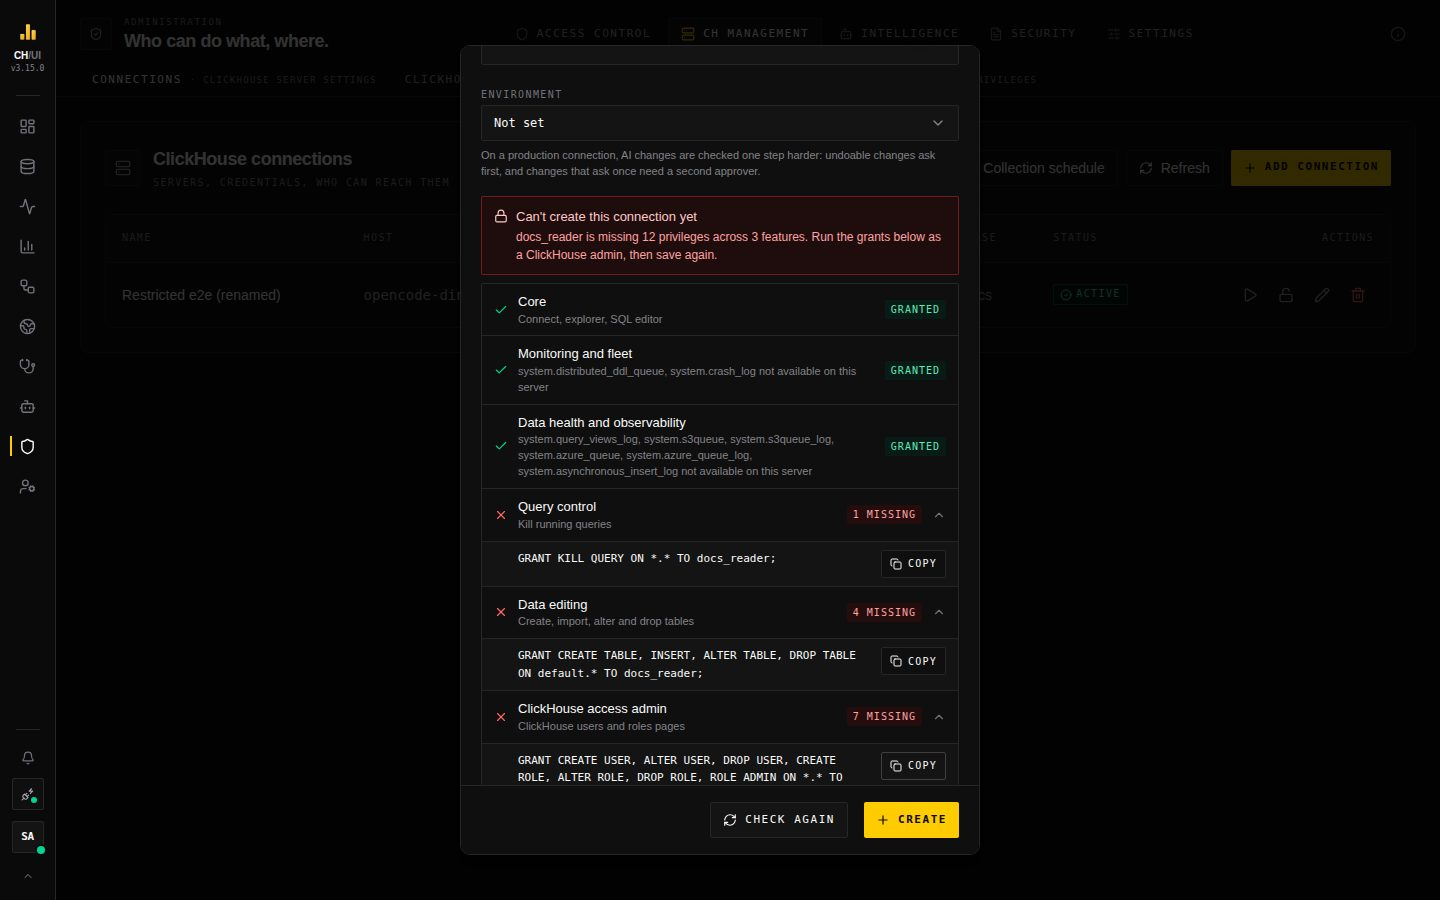
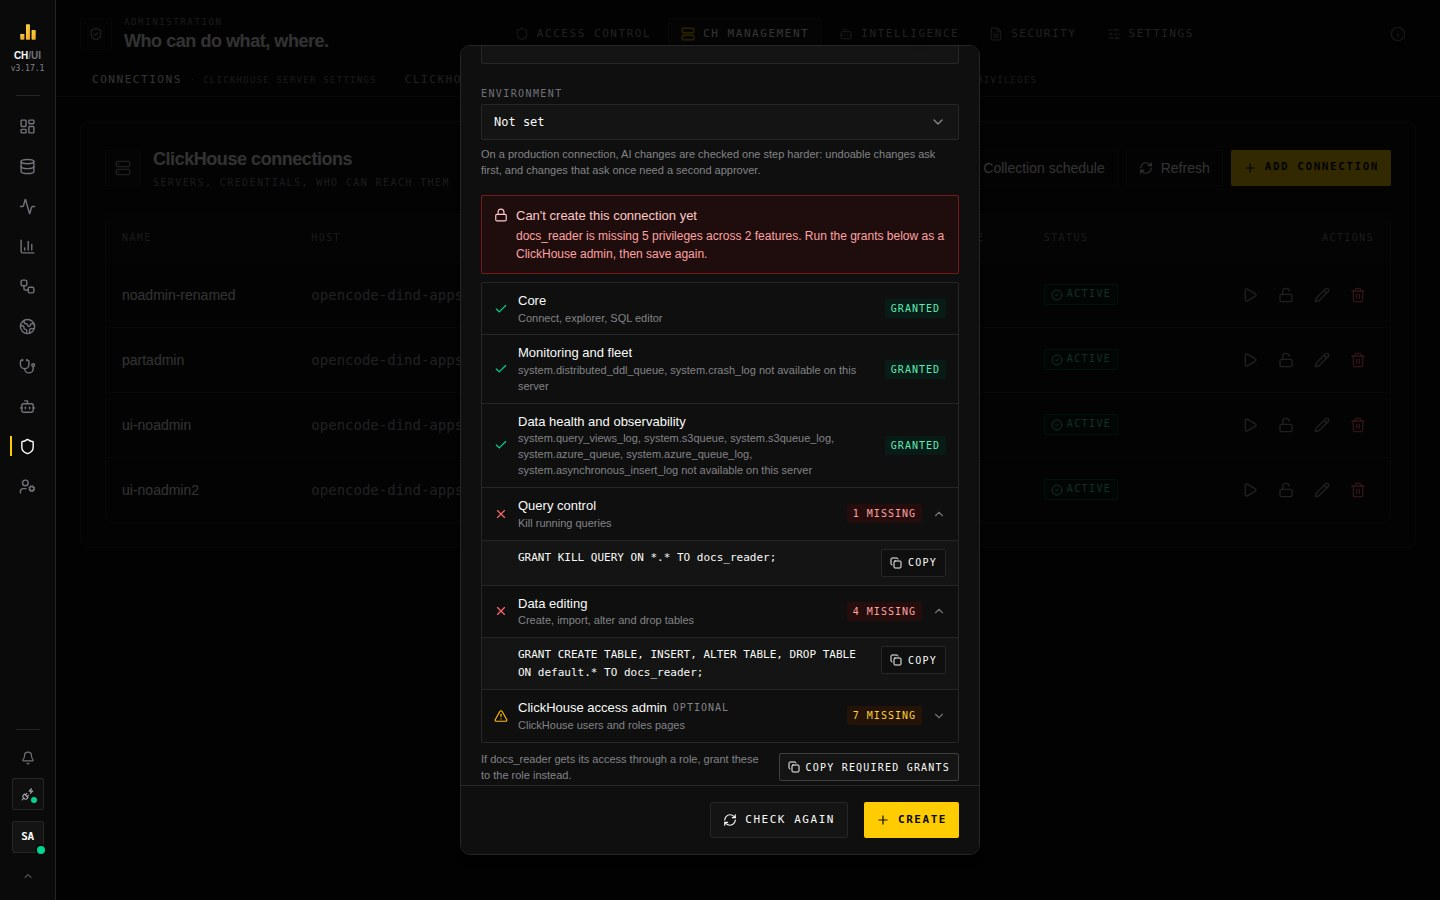
docs(connections): describe optional access admin and refresh the screenshot
Regenerates the ClickHouse privileges reference (and the stale Helm values
page the generator check needs), updates the connections, users & roles and
production checklist pages, and adds the patch changelog fragment.

diff --git a/docs/portfolio/scripts/gen-reference.ts b/docs/portfolio/scripts/gen-reference.ts
@@ -46,7 +46,7 @@ import { BUILTIN_TOOLS } from "../../../packages/server/src/services/ai/registry
 import { SEED_AGENTS, SEED_BINDINGS, SEED_HARNESSES, SEED_SKILLS, type SeedAgent } from "../../../packages/server/src/services/ai/seeds";
 import type { AnyCapability } from "../../../packages/server/src/services/ai/types";
 import { CONTEXT_HINTS, CONTEXT_LABELS, SURFACE_LABELS, SURFACE_ORDER } from "../../../src/features/agents/assistant/lib";
-import { PRIVILEGE_FEATURES } from "../../../packages/server/src/services/connectionPrivileges";
+import { PRIVILEGE_FEATURES, type PrivilegeFeature } from "../../../packages/server/src/services/connectionPrivileges";
 import { CONFIG_KEYS, CONFIG_SECTIONS, IGNORED_ENV } from "../src/content/reference/config-keys";
 import { RELEASE } from "../src/content/release";
 import { slugify } from "../src/docs-site/lib";
@@ -231,6 +231,7 @@ ${table(["Area", "Actions"], rows)}
 function connectionPrivilegesPage(): string {
   const rows = PRIVILEGE_FEATURES.map((feature) => [
     `**${feature.name}**`,
+    feature.required ? "Yes" : "No — warns",
     cell(feature.description),
     feature.systemTables.length ? feature.systemTables.map((t) => code(`system.${t}`)).join(", ") : "—",
     (["global", "database"] as const)
@@ -241,28 +242,38 @@ function connectionPrivilegesPage(): string {
       .filter(Boolean)
       .join("; ") || "—",
   ]);
-  const tables = [...new Set(PRIVILEGE_FEATURES.flatMap((f) => f.systemTables))];
-  const byScope = (scope: "global" | "database"): string[] =>
-    [...new Set(PRIVILEGE_FEATURES.flatMap((f) => f.privileges.filter((p) => p.scope === scope).map((p) => p.privilege)))];
+  const required = PRIVILEGE_FEATURES.filter((f) => f.required);
+  const optional = PRIVILEGE_FEATURES.filter((f) => !f.required);
+  const requiredTables = new Set(required.flatMap((f) => f.systemTables));
+  const optionalTables = [...new Set(optional.flatMap((f) => f.systemTables))].filter((t) => !requiredTables.has(t));
+  const byScope = (features: readonly PrivilegeFeature[], scope: "global" | "database"): string[] =>
+    [...new Set(features.flatMap((f) => f.privileges.filter((p) => p.scope === scope).map((p) => p.privilege)))];
+  const grantLine = (privileges: string[], target: string): string[] => (privileges.length ? [`GRANT ${privileges.join(", ")} ON ${target} TO chouse_ui;`] : []);
   const script = [
     "CREATE USER chouse_ui IDENTIFIED BY 'change-me';",
     "-- What people query: repeat for each database",
     "GRANT SELECT ON analytics.* TO chouse_ui;",
-    ...tables.map((t) => `GRANT SELECT ON system.${t} TO chouse_ui;`),
-    `GRANT ${byScope("global").join(", ")} ON *.* TO chouse_ui;`,
+    ...[...requiredTables].map((t) => `GRANT SELECT ON system.${t} TO chouse_ui;`),
+    ...grantLine(byScope(required, "global"), "*.*"),
     "-- The connection's default database",
-    `GRANT ${byScope("database").join(", ")} ON analytics.* TO chouse_ui;`,
+    ...grantLine(byScope(required, "database"), "analytics.*"),
+    `-- Optional: ${optional.map((f) => f.name).join(", ")}`,
+    ...optionalTables.map((t) => `GRANT SELECT ON system.${t} TO chouse_ui;`),
+    ...grantLine(byScope(optional, "global"), "*.*"),
+    ...grantLine(byScope(optional, "database"), "analytics.*"),
   ].join("\n");
   return page(
     "PRIVILEGE_FEATURES in packages/server/src/services/connectionPrivileges.ts",
     `
 # ClickHouse privileges
 
-What a [connection](/docs/connections/)'s ClickHouse user must be able to do for every CHouse UI feature to work. **Test connection** checks the user against every feature below, and a connection is only saved once every check passes: **Create** and **Update** run the same check on the server first. Whatever is missing comes back as \`GRANT\` statements you can copy and run as a ClickHouse admin.
+What a [connection](/docs/connections/)'s ClickHouse user must be able to do for every CHouse UI feature to work. **Test connection** checks the user against every feature below, and a connection is only saved once every **required** feature passes: **Create** and **Update** run the same check on the server first. Whatever is missing comes back as \`GRANT\` statements you can copy and run as a ClickHouse admin.
 
 ## What each feature needs
 
-${table(["Feature", "Covers", "Read (\`SELECT\`)", "Privileges"], rows)}
+${table(["Feature", "Required to save", "Covers", "Read (\`SELECT\`)", "Privileges"], rows)}
+
+${optional.map((f) => `**${f.name}** is optional`).join(", ")}: its privileges let the connection user create other users and hand out grants, which many teams keep away from a UI's service account. Without them the connection still saves, with a warning, and every other feature works; only the [ClickHouse users & roles](/docs/clickhouse-users-roles/) pages fail until you grant them.
 
 Data editing is checked on the connection's **default database** (\`default\` when none is set). Grant the same on any other database people should be able to change.
 
@@ -272,7 +283,7 @@ Data editing is checked on the connection's **default database** (\`default\` wh
 - **Other privileges** are checked against the user's own \`SHOW GRANTS\`, with roles expanded (\`SHOW GRANTS FINAL\` where the server supports it, each enabled role on older servers) and ClickHouse's privilege tree from \`system.privileges\`, so \`ALL\`, \`ACCESS MANAGEMENT\` or \`ALTER\` cover the privileges under them.
 - The check needs no privilege of its own and changes nothing on the server.
 
-Existing connections are never blocked: the check runs when you create one, change its host, port, user, password, SSL or default database, or press **Test**. **Test** on a row of the connection list warns when that connection's user is missing something.
+Existing connections are never blocked: the check runs when you create one, change its host, port, user, password, SSL or default database, or press **Test**. **Test** on a row of the connection list warns when that connection's user is missing something. A check that fails for another reason, such as a timeout, blocks the save only for a required feature.
 
 ## A user with everything
 

diff --git a/docs/portfolio/src/content/docs/connection-privileges.md b/docs/portfolio/src/content/docs/connection-privileges.md
@@ -3,18 +3,20 @@ generated: PRIVILEGE_FEATURES in packages/server/src/services/connectionPrivileg
 ---
 # ClickHouse privileges
 
-What a [connection](/docs/connections/)'s ClickHouse user must be able to do for every CHouse UI feature to work. **Test connection** checks the user against every feature below, and a connection is only saved once every check passes: **Create** and **Update** run the same check on the server first. Whatever is missing comes back as `GRANT` statements you can copy and run as a ClickHouse admin.
+What a [connection](/docs/connections/)'s ClickHouse user must be able to do for every CHouse UI feature to work. **Test connection** checks the user against every feature below, and a connection is only saved once every **required** feature passes: **Create** and **Update** run the same check on the server first. Whatever is missing comes back as `GRANT` statements you can copy and run as a ClickHouse admin.
 
 ## What each feature needs
 
-| Feature | Covers | Read (`SELECT`) | Privileges |
-| --- | --- | --- | --- |
-| **Core** | Connect, explorer, SQL editor | `system.databases`, `system.tables`, `system.columns`, `system.functions`, `system.keywords` | — |
-| **Monitoring and fleet** | Metrics, live queries, dashboards | `system.query_log`, `system.processes`, `system.metrics`, `system.events`, `system.asynchronous_metrics`, `system.metric_log`, `system.asynchronous_metric_log`, `system.parts`, `system.parts_columns`, `system.part_log`, `system.merges`, `system.mutations`, `system.replicas`, `system.replication_queue`, `system.disks`, `system.errors`, `system.clusters`, `system.macros`, `system.distributed_ddl_queue`, `system.distribution_queue`, `system.crash_log` | — |
-| **Data health and observability** | Collectors, pipelines, Doctor, upgrades | `system.tables`, `system.columns`, `system.databases`, `system.dictionaries`, `system.parts`, `system.part_log`, `system.query_log`, `system.query_views_log`, `system.processes`, `system.merges`, `system.mutations`, `system.replicas`, `system.disks`, `system.errors`, `system.settings_profile_elements`, `system.kafka_consumers`, `system.s3queue`, `system.s3queue_log`, `system.azure_queue`, `system.azure_queue_log`, `system.view_refreshes`, `system.distribution_queue`, `system.asynchronous_insert_log`, `system.asynchronous_inserts`, `system.asynchronous_metrics`, `system.data_skipping_indices`, `system.server_settings`, `system.merge_tree_settings` | — |
-| **Query control** | Kill running queries | — | `KILL QUERY` on `*.*` |
-| **Data editing** | Create, import, alter and drop tables | — | `CREATE TABLE`, `INSERT`, `ALTER TABLE`, `DROP TABLE` on the default database |
-| **ClickHouse access admin** | ClickHouse users and roles pages | `system.users`, `system.roles`, `system.grants`, `system.role_grants` | `CREATE USER`, `ALTER USER`, `DROP USER`, `CREATE ROLE`, `ALTER ROLE`, `DROP ROLE`, `ROLE ADMIN` on `*.*` |
+| Feature | Required to save | Covers | Read (`SELECT`) | Privileges |
+| --- | --- | --- | --- | --- |
+| **Core** | Yes | Connect, explorer, SQL editor | `system.databases`, `system.tables`, `system.columns`, `system.functions`, `system.keywords` | — |
+| **Monitoring and fleet** | Yes | Metrics, live queries, dashboards | `system.query_log`, `system.processes`, `system.metrics`, `system.events`, `system.asynchronous_metrics`, `system.metric_log`, `system.asynchronous_metric_log`, `system.parts`, `system.parts_columns`, `system.part_log`, `system.merges`, `system.mutations`, `system.replicas`, `system.replication_queue`, `system.disks`, `system.errors`, `system.clusters`, `system.macros`, `system.distributed_ddl_queue`, `system.distribution_queue`, `system.crash_log` | — |
+| **Data health and observability** | Yes | Collectors, pipelines, Doctor, upgrades | `system.tables`, `system.columns`, `system.databases`, `system.dictionaries`, `system.parts`, `system.part_log`, `system.query_log`, `system.query_views_log`, `system.processes`, `system.merges`, `system.mutations`, `system.replicas`, `system.disks`, `system.errors`, `system.settings_profile_elements`, `system.kafka_consumers`, `system.s3queue`, `system.s3queue_log`, `system.azure_queue`, `system.azure_queue_log`, `system.view_refreshes`, `system.distribution_queue`, `system.asynchronous_insert_log`, `system.asynchronous_inserts`, `system.asynchronous_metrics`, `system.data_skipping_indices`, `system.server_settings`, `system.merge_tree_settings` | — |
+| **Query control** | Yes | Kill running queries | — | `KILL QUERY` on `*.*` |
+| **Data editing** | Yes | Create, import, alter and drop tables | — | `CREATE TABLE`, `INSERT`, `ALTER TABLE`, `DROP TABLE` on the default database |
+| **ClickHouse access admin** | No — warns | ClickHouse users and roles pages | `system.users`, `system.roles`, `system.grants`, `system.role_grants` | `CREATE USER`, `ALTER USER`, `DROP USER`, `CREATE ROLE`, `ALTER ROLE`, `DROP ROLE`, `ROLE ADMIN` on `*.*` |
+
+**ClickHouse access admin** is optional: its privileges let the connection user create other users and hand out grants, which many teams keep away from a UI's service account. Without them the connection still saves, with a warning, and every other feature works; only the [ClickHouse users & roles](/docs/clickhouse-users-roles/) pages fail until you grant them.
 
 Data editing is checked on the connection's **default database** (`default` when none is set). Grant the same on any other database people should be able to change.
 
@@ -24,7 +26,7 @@ Data editing is checked on the connection's **default database** (`default` when
 - **Other privileges** are checked against the user's own `SHOW GRANTS`, with roles expanded (`SHOW GRANTS FINAL` where the server supports it, each enabled role on older servers) and ClickHouse's privilege tree from `system.privileges`, so `ALL`, `ACCESS MANAGEMENT` or `ALTER` cover the privileges under them.
 - The check needs no privilege of its own and changes nothing on the server.
 
-Existing connections are never blocked: the check runs when you create one, change its host, port, user, password, SSL or default database, or press **Test**. **Test** on a row of the connection list warns when that connection's user is missing something.
+Existing connections are never blocked: the check runs when you create one, change its host, port, user, password, SSL or default database, or press **Test**. **Test** on a row of the connection list warns when that connection's user is missing something. A check that fails for another reason, such as a timeout, blocks the save only for a required feature.
 
 ## A user with everything
 
@@ -74,13 +76,15 @@ GRANT SELECT ON system.asynchronous_inserts TO chouse_ui;
 GRANT SELECT ON system.data_skipping_indices TO chouse_ui;
 GRANT SELECT ON system.server_settings TO chouse_ui;
 GRANT SELECT ON system.merge_tree_settings TO chouse_ui;
+GRANT KILL QUERY ON *.* TO chouse_ui;
+-- The connection's default database
+GRANT CREATE TABLE, INSERT, ALTER TABLE, DROP TABLE ON analytics.* TO chouse_ui;
+-- Optional: ClickHouse access admin
 GRANT SELECT ON system.users TO chouse_ui;
 GRANT SELECT ON system.roles TO chouse_ui;
 GRANT SELECT ON system.grants TO chouse_ui;
 GRANT SELECT ON system.role_grants TO chouse_ui;
-GRANT KILL QUERY, CREATE USER, ALTER USER, DROP USER, CREATE ROLE, ALTER ROLE, DROP ROLE, ROLE ADMIN ON *.* TO chouse_ui;
--- The connection's default database
-GRANT CREATE TABLE, INSERT, ALTER TABLE, DROP TABLE ON analytics.* TO chouse_ui;
+GRANT CREATE USER, ALTER USER, DROP USER, CREATE ROLE, ALTER ROLE, DROP ROLE, ROLE ADMIN ON *.* TO chouse_ui;
 ```
 
 To let [ClickHouse users & roles](/docs/clickhouse-users-roles/) hand out privileges to others, the connection user also needs those privileges `WITH GRANT OPTION`.

diff --git a/docs/portfolio/src/content/docs/connections.md b/docs/portfolio/src/content/docs/connections.md
@@ -18,7 +18,7 @@ A **connection** is a ClickHouse server CHouse UI talks to. You can register man
    - **Default database** (optional) — empty uses the server's default
    - **SSL / TLS** — connect over HTTPS
    - **Environment** (optional) — see [below](#environment)
-3. **Test connection** shows the server version and latency, and checks the ClickHouse user against [every feature](#required-clickhouse-privileges). **Create** saves it once every check passes.
+3. **Test connection** shows the server version and latency, and checks the ClickHouse user against [every feature](#required-clickhouse-privileges). **Create** saves it once every required check passes.
 
 `CLICKHOUSE_DEFAULT_URL`, `CLICKHOUSE_DEFAULT_USER` and `CLICKHOUSE_PRESET_URLS` pre-fill the form — see [Environment variables](/docs/configuration-env/#clickhouse-connection-defaults).
 
@@ -34,15 +34,17 @@ A new connection is invisible to non-admins until a [data access policy](/docs/d
 
 ## Required ClickHouse privileges
 
-**Test connection** checks the connection's ClickHouse user against what every feature needs — the explorer and editor, monitoring, Data Health, killing queries, changing tables in the default database, and ClickHouse users and roles — and lists each feature as granted or missing. **Create** and **Update** run the same check on the server, and save only when every feature is granted.
+**Test connection** checks the connection's ClickHouse user against what every feature needs — the explorer and editor, monitoring, Data Health, killing queries, changing tables in the default database, and ClickHouse users and roles — and lists each feature as granted or missing. **Create** and **Update** run the same check on the server, and save only when every required feature is granted.
 
-When something is missing, the dialog says **Can't create this connection yet** (or **Can't save these changes yet**), opens each failing feature with its `GRANT` statements and a **Copy** button, and highlights the username. **Copy all grants** copies the whole script. Run it as a ClickHouse admin — or grant it to a role the user has — and press **Check again**; once every feature passes, save.
+When a required feature is missing, the dialog says **Can't create this connection yet** (or **Can't save these changes yet**), opens each failing feature with its `GRANT` statements and a **Copy** button, and highlights the username. **Copy all grants** (**Copy required grants** when an optional feature is missing too) copies the script for the required features. Run it as a ClickHouse admin — or grant it to a role the user has — and press **Check again**; once every required feature passes, save.
 
-![A connection that can't be saved yet, with the grants to run](/docs/img/app/admin-connection-privileges.jpg "The ClickHouse user is missing privileges: each failing feature lists its GRANT statements")
+**ClickHouse access admin** (`CREATE USER`, `ALTER USER`, `DROP USER`, `CREATE ROLE`, `ALTER ROLE`, `DROP ROLE`, `ROLE ADMIN` and reading `system.users`, `system.roles`, `system.grants`, `system.role_grants`) is **optional**: those grants let the user create other users, so you may not want to give them to CHouse UI. Without them the feature is marked *Optional* in amber, the connection saves with a warning, and only [ClickHouse users & roles](/docs/clickhouse-users-roles/) won't work until you grant them.
+
+![A connection that can't be saved yet, with the grants to run](/docs/img/app/admin-connection-privileges.jpg "The ClickHouse user is missing required privileges: each failing feature lists its GRANT statements, and the optional ClickHouse access admin is marked in amber")
 
 - **Editing** a connection checks again only when you change its host, port, user, password, SSL or default database; renaming it, or switching it on or off, doesn't. With the password field empty, the saved password is used — except when you change the host or port, or switch SSL off: then enter the password again, so the saved one never goes to another server.
-- A table the server doesn't have is shown as *not available* and doesn't count. A check that fails for another reason, such as a timeout, blocks the save until **Check again** gets through.
-- Existing connections keep working. **Test** on a row of the list warns when the user is missing something.
+- A table the server doesn't have is shown as *not available* and doesn't count. A check that fails for another reason, such as a timeout, blocks the save until **Check again** gets through — unless it is in an optional feature.
+- Existing connections keep working. **Test** on a row of the list warns when the user is missing something, optional features included.
 
 The full list, how the check works and a script for a user that has everything are on [ClickHouse privileges](/docs/connection-privileges/).
 

diff --git a/docs/portfolio/src/content/docs/production-checklist.md b/docs/portfolio/src/content/docs/production-checklist.md
@@ -26,7 +26,7 @@ Work through this before exposing CHouse UI beyond localhost.
 ## Runtime
 
 - [ ] Set `NODE_ENV=production` and `LOG_LEVEL=info` (or `warn`)
-- [ ] Run **Test connection** on each connection (**Admin › Connections › Edit**) so its user has [every privilege](/docs/connection-privileges/) CHouse UI needs, including the system tables the [collector](/docs/data-observability/#grant-the-collector-what-it-needs) reads
+- [ ] Run **Test connection** on each connection (**Admin › Connections › Edit**) so its user has [every privilege](/docs/connection-privileges/) CHouse UI needs (access management only if you want to manage ClickHouse users and roles here), including the system tables the [collector](/docs/data-observability/#grant-the-collector-what-it-needs) reads
 - [ ] To use [fixes](/docs/data-incidents/#set-up-fixes-for-a-connection), give each connection a remediation credential with only the grants the fixes need
 - [ ] Set `PUBLIC_BASE_URL` to the address people use
 - [ ] Leave MCP off (AI Governance › MCP) unless agents need access; turn on only the tools they need, and set [agent budgets](/docs/agents/)

diff --git a/docs/portfolio/src/content/docs/clickhouse-users-roles.md b/docs/portfolio/src/content/docs/clickhouse-users-roles.md
@@ -9,7 +9,7 @@ These two Admin tabs manage **real ClickHouse accounts and roles** on the active
 
 Use them when people or services connect to ClickHouse directly (BI tools, applications, `clickhouse-client`) and you want to manage those accounts from one place.
 
-> **Note:** Changes run as the active connection's ClickHouse user, so that user needs access-management rights in ClickHouse (`access_management` or the matching `GRANT`s). Users and roles defined in ClickHouse's XML/YAML config show as **Managed in ClickHouse config (read-only)** and can't be edited here.
+> **Note:** Changes run as the active connection's ClickHouse user, so that user needs access-management rights in ClickHouse (`access_management` or the matching `GRANT`s). They are [optional](/docs/connection-privileges/) when you save a connection: without them the connection still works everywhere else, and these two tabs say the connection's user isn't allowed until you grant them. Users and roles defined in ClickHouse's XML/YAML config show as **Managed in ClickHouse config (read-only)** and can't be edited here.
 
 ## ClickHouse users
 

diff --git a/changelogs/unreleased/423-optional-access-admin.md b/changelogs/unreleased/423-optional-access-admin.md
@@ -1,0 +1,4 @@
+type: patch
+
+### Changed
+- **Connections save without ClickHouse access management** — a connection whose ClickHouse user lacks `CREATE USER`, `ALTER USER`, `DROP USER`, `CREATE ROLE`, `ALTER ROLE`, `DROP ROLE`, `ROLE ADMIN` (or reading `system.users`, `system.roles`, `system.grants`, `system.role_grants`) is now saved with a warning instead of being refused. Those grants only power Admin › ClickHouse users and roles, which say the connection's user isn't allowed (`403 CLICKHOUSE_ACCESS_DENIED`) until they are granted. In the privilege report, `ok` now means every *required* feature passes; the new `complete` means every feature does (ADR 0031).
